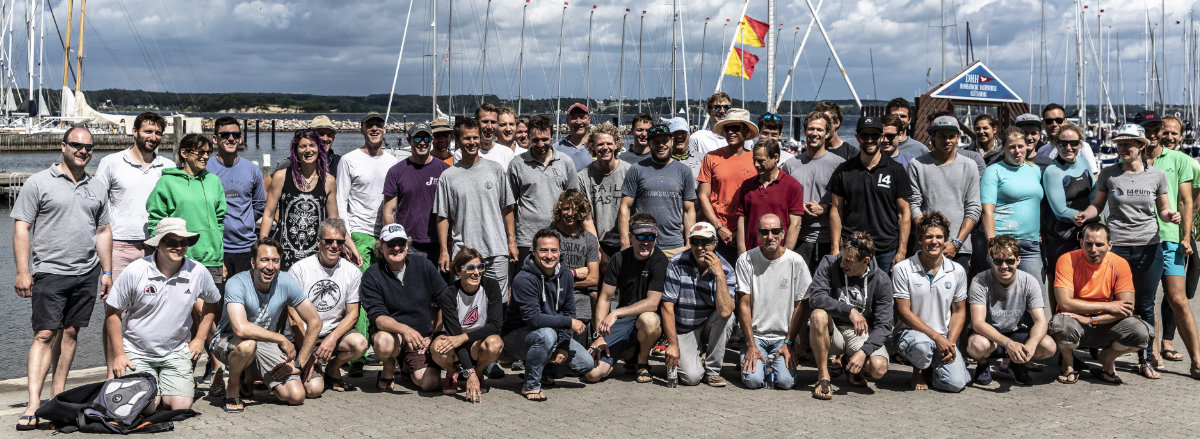
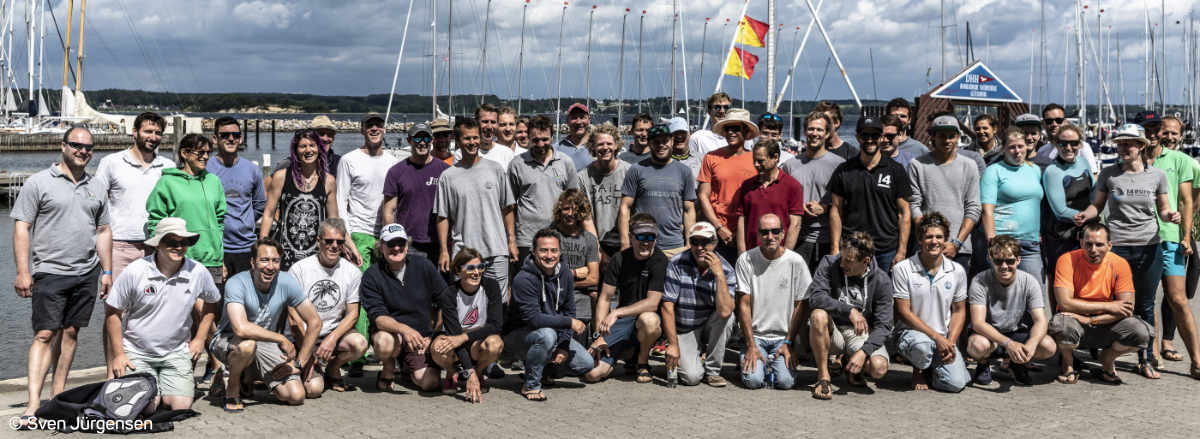
Added copyright label to all cropped images and exchanged index image

diff --git a/react_frontend/src/App/IndexPage/IndexPage.scss b/react_frontend/src/App/IndexPage/IndexPage.scss
@@ -93,7 +93,7 @@
         }
 
         .Image {
-            background: url("https://storage.googleapis.com/i14-worlds-2021-gallery/default-images/IndexImage1_2800px_Portrait.jpg") no-repeat center center fixed;
+            background: url("https://storage.googleapis.com/i14-worlds-2021-gallery/default-images/index-image-2800-portrait.jpg") no-repeat center center fixed;
             -webkit-background-size: cover;
             -moz-background-size: cover;
             -o-background-size: cover;
@@ -114,7 +114,7 @@
         }
 
         .Image {
-            background: url("https://storage.googleapis.com/i14-worlds-2021-gallery/default-images/IndexImage1_2800px_Landscape.jpg") no-repeat center center fixed;
+            background: url("https://storage.googleapis.com/i14-worlds-2021-gallery/default-images/index-image-2800-landscape.jpg") no-repeat center center fixed;
             -webkit-background-size: cover;
             -moz-background-size: cover;
             -o-background-size: cover;
